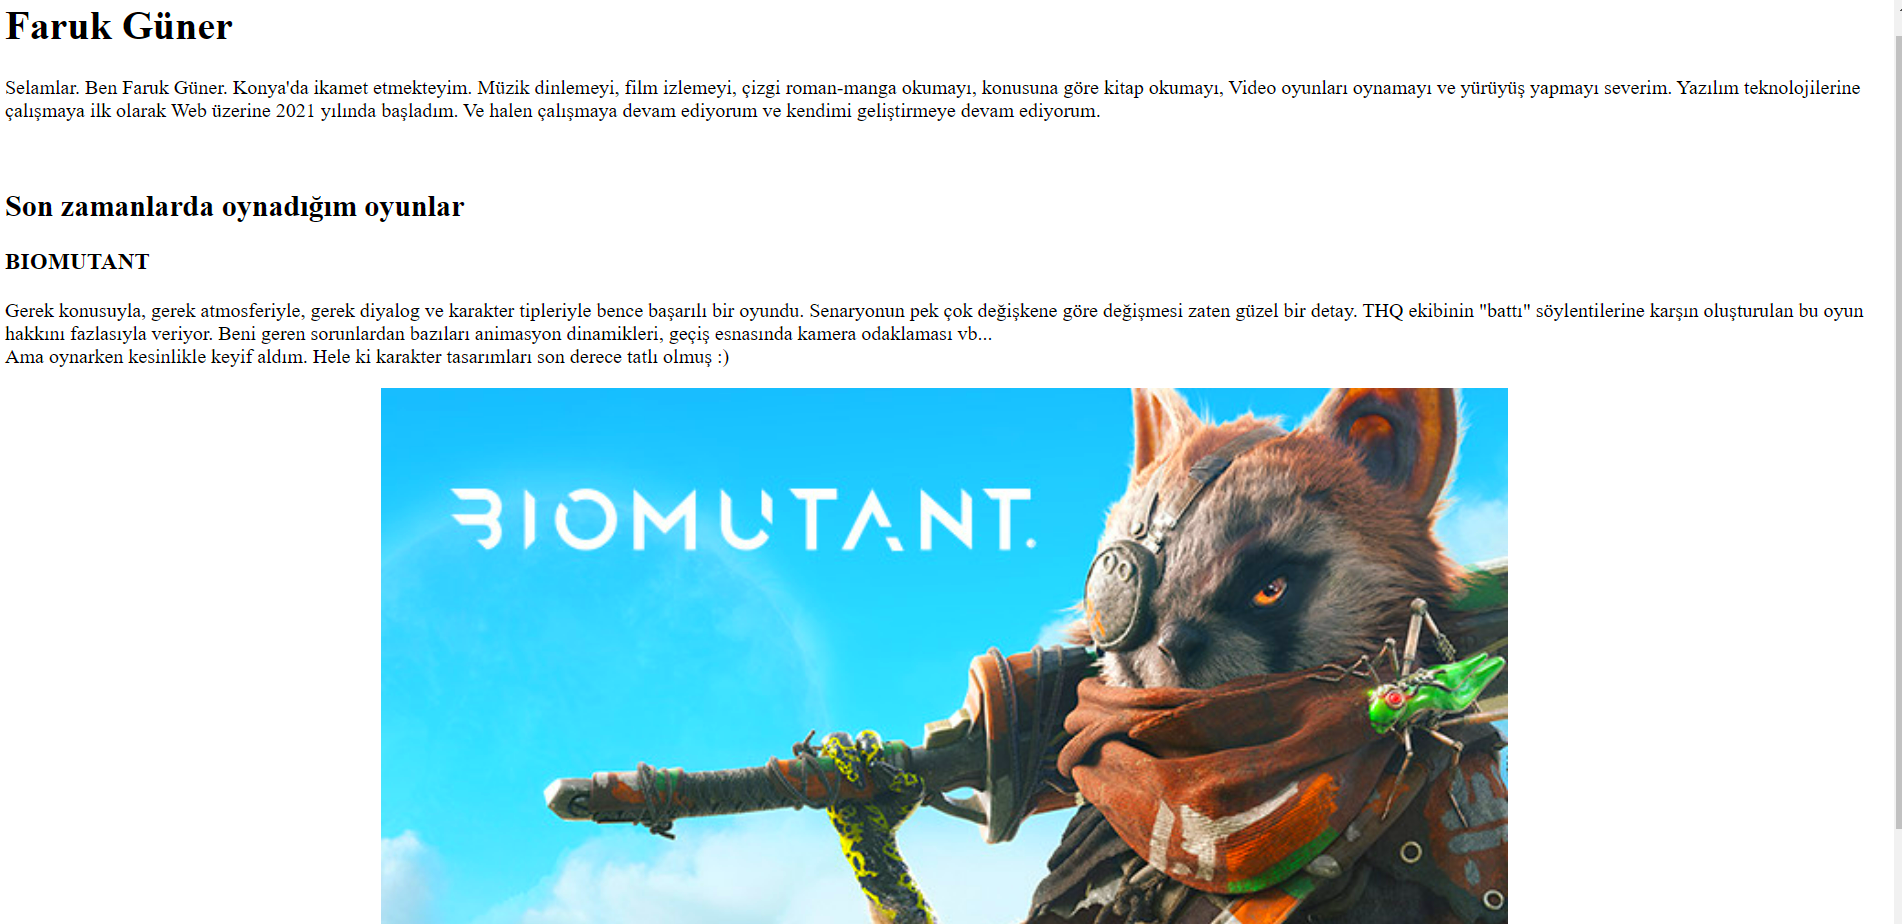
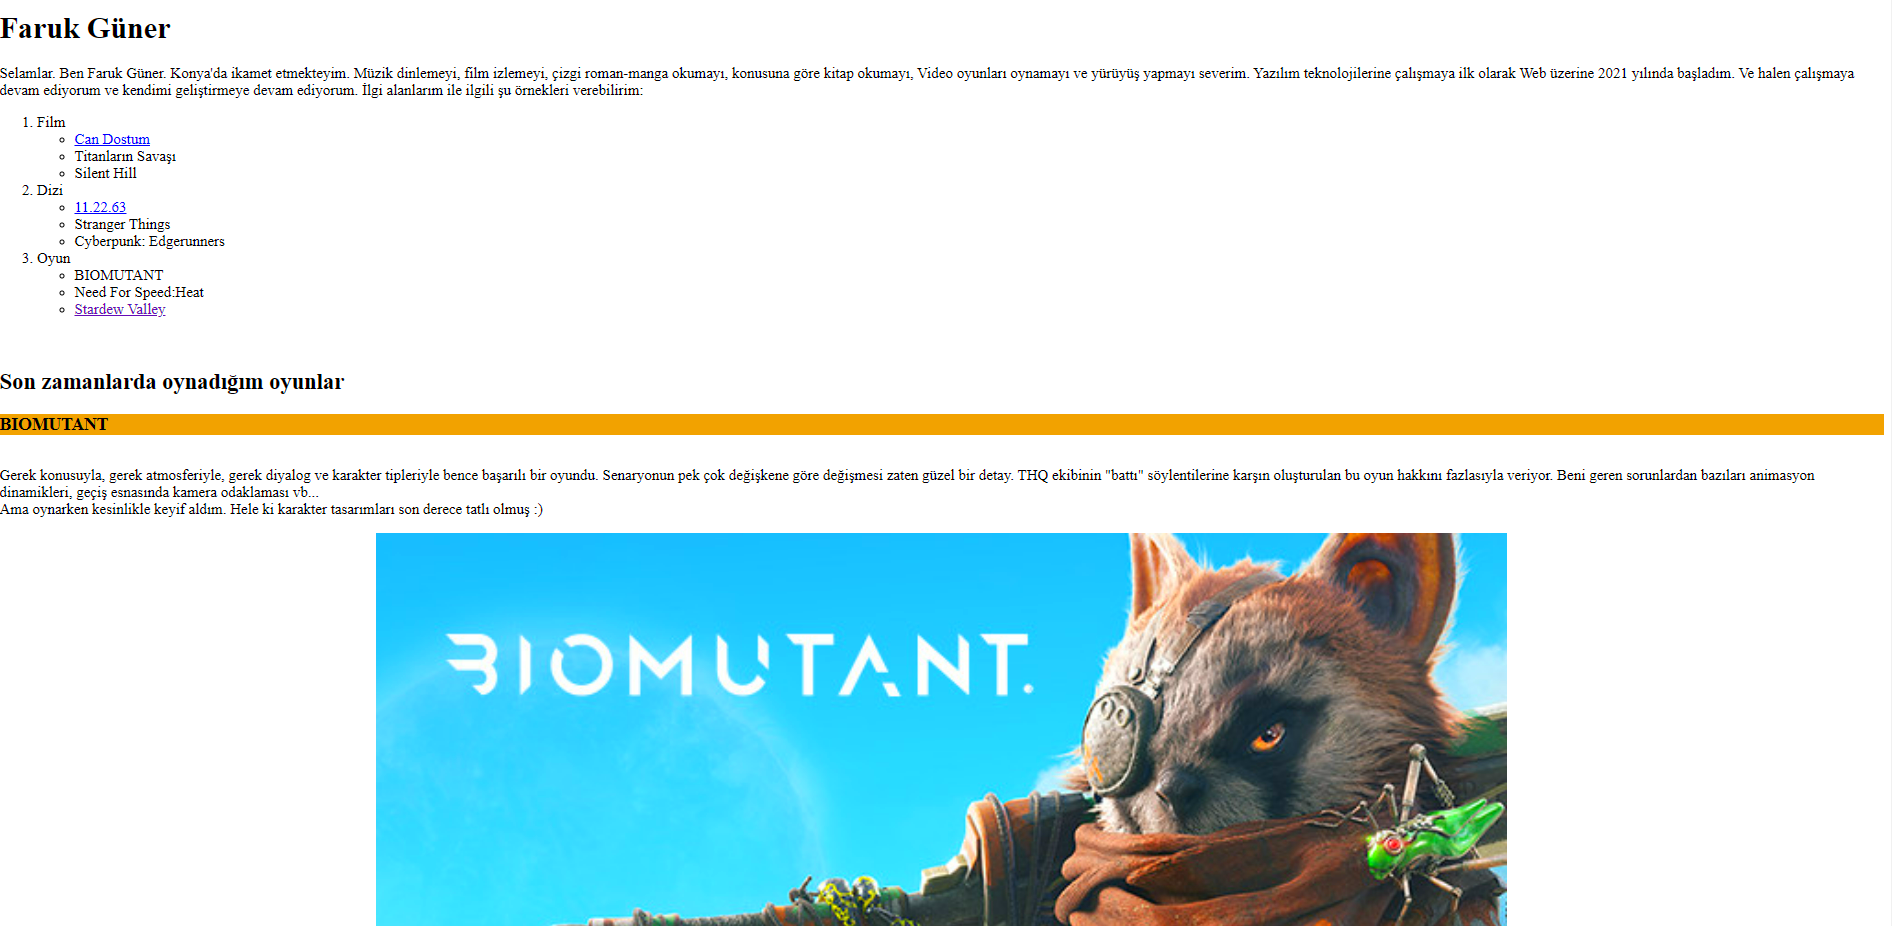
Updated markdown image and index.html

diff --git a/index.html b/index.html
@@ -39,8 +39,8 @@
     </ol>
     <br/><!-- 'break' etiketi ile bir sonraki satıra geçiş yaptım-->
     <h2>Son zamanlarda oynadığım oyunlar</h2>
-    <h3>BIOMUTANT</h3>
-    <p>Gerek konusuyla, gerek atmosferiyle, gerek diyalog ve karakter tipleriyle bence başarılı bir oyundu. 
+    <h3 style="display: block;background-color: goldenrod;">BIOMUTANT</h3>
+    <p style="display: inline-block;">Gerek konusuyla, gerek atmosferiyle, gerek diyalog ve karakter tipleriyle bence başarılı bir oyundu. 
         Senaryonun pek çok değişkene göre değişmesi zaten güzel bir detay. THQ ekibinin "battı" söylentilerine karşın oluşturulan bu oyun hakkını fazlasıyla veriyor.
         Beni geren sorunlardan bazıları animasyon dinamikleri, geçiş esnasında kamera odaklaması vb...<br/>
         Ama oynarken kesinlikle keyif aldım. Hele ki karakter tasarımları son derece tatlı olmuş :)</p>
